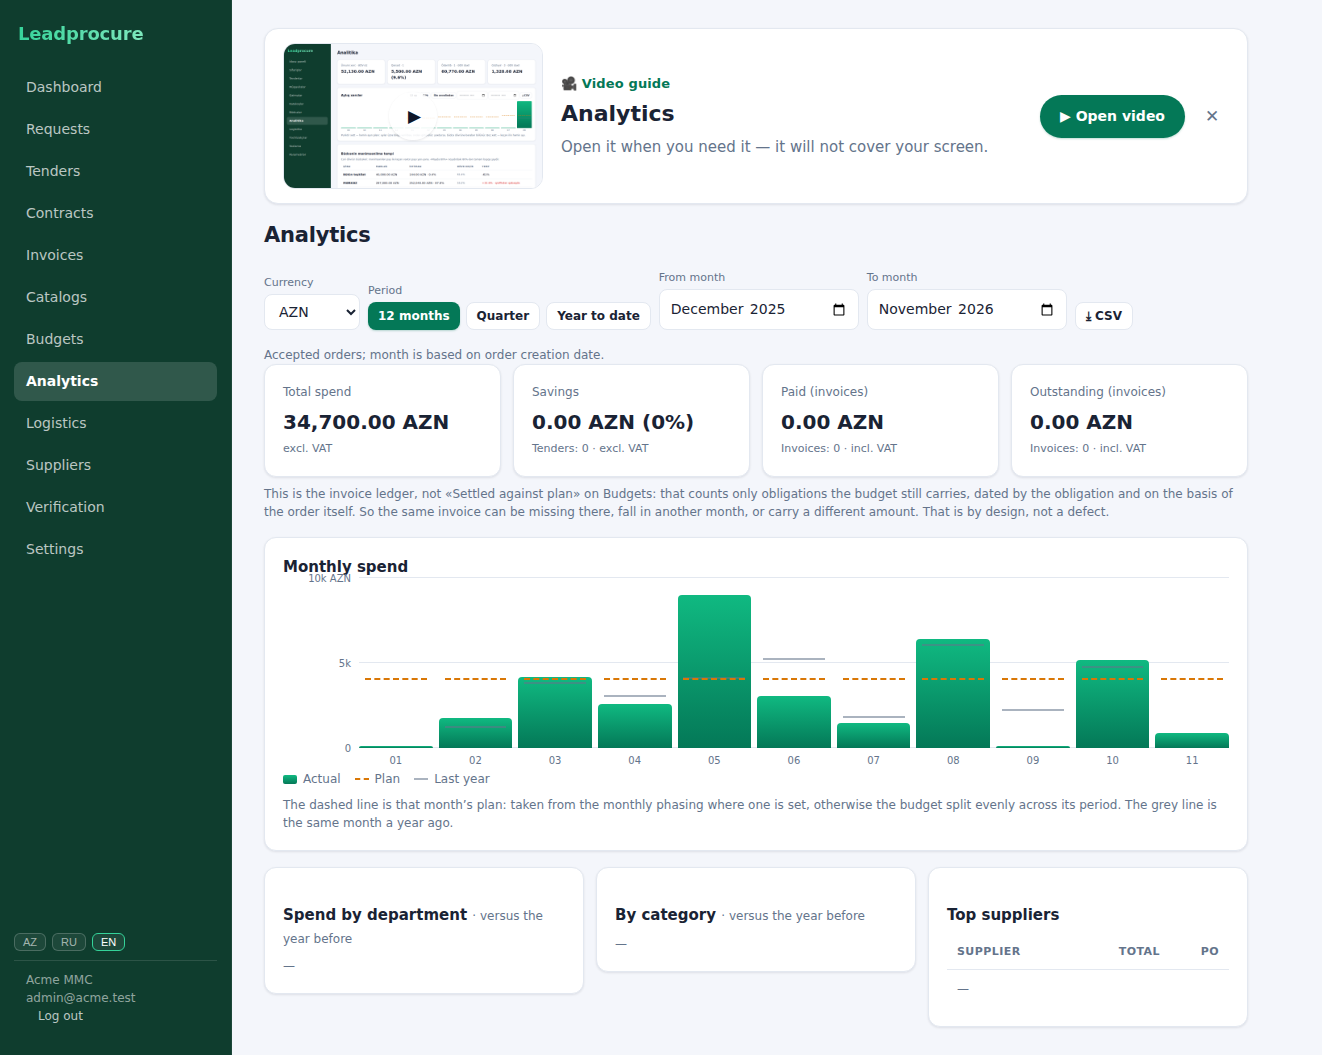
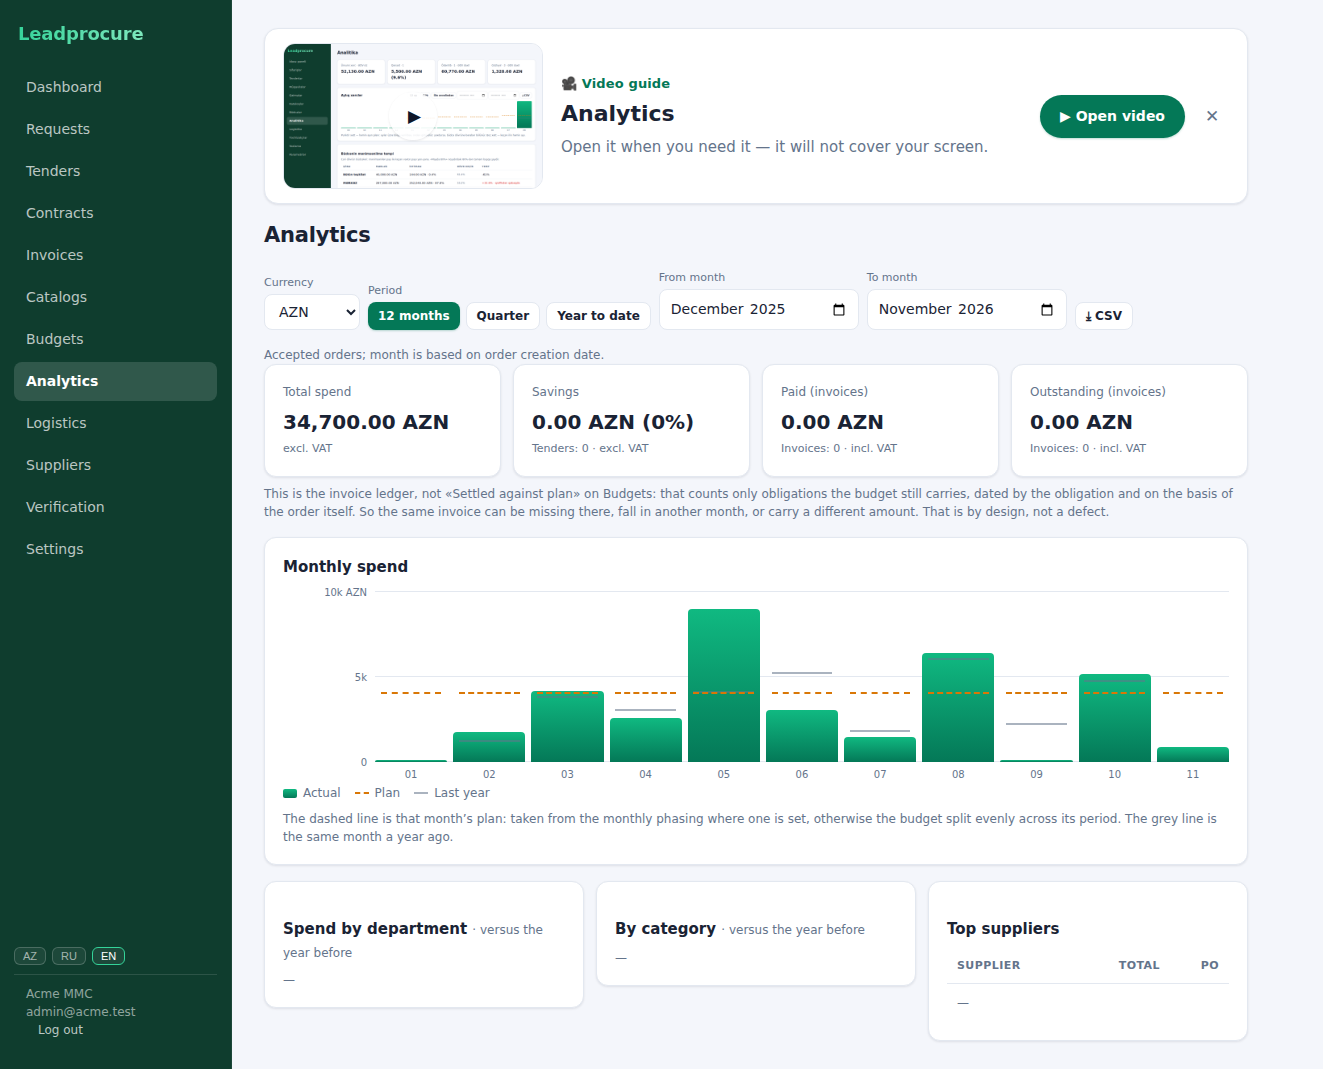
docs(audit): снимок "как стало" — после правки оси, а не до неё

diff --git a/docs/ui-ux-audit-2026-10-31.md b/docs/ui-ux-audit-2026-10-31.md
@@ -442,8 +442,8 @@ SHIPPED, NEW, CREATED, ARCHIVED, SUPERSEDED**.
 все закрыты в той же ветке до мержа:
 
 - верхняя засечка оси стоит по центру своей линии, то есть половиной строки выше
-  плота, и налезала на заголовок «Расходы по месяцам» — видно на том самом
-  снимке «как стало». Плот отодвинут, ось расширена до 84px («100 тыс. AZN»
+  плота, и налезала на заголовок «Расходы по месяцам» — было видно на снимке
+  приёмки прошлого прогона; приложенный снимок — уже после правки. Плот отодвинут, ось расширена до 84px («100 тыс. AZN»
   шире, чем "100K AZN"), и приёмка теперь меряет, что засечка начинается ниже
   заголовка;
 - лесенка круглых чисел включает 2,5, поэтому при шкале 2 500 середина стоит на
